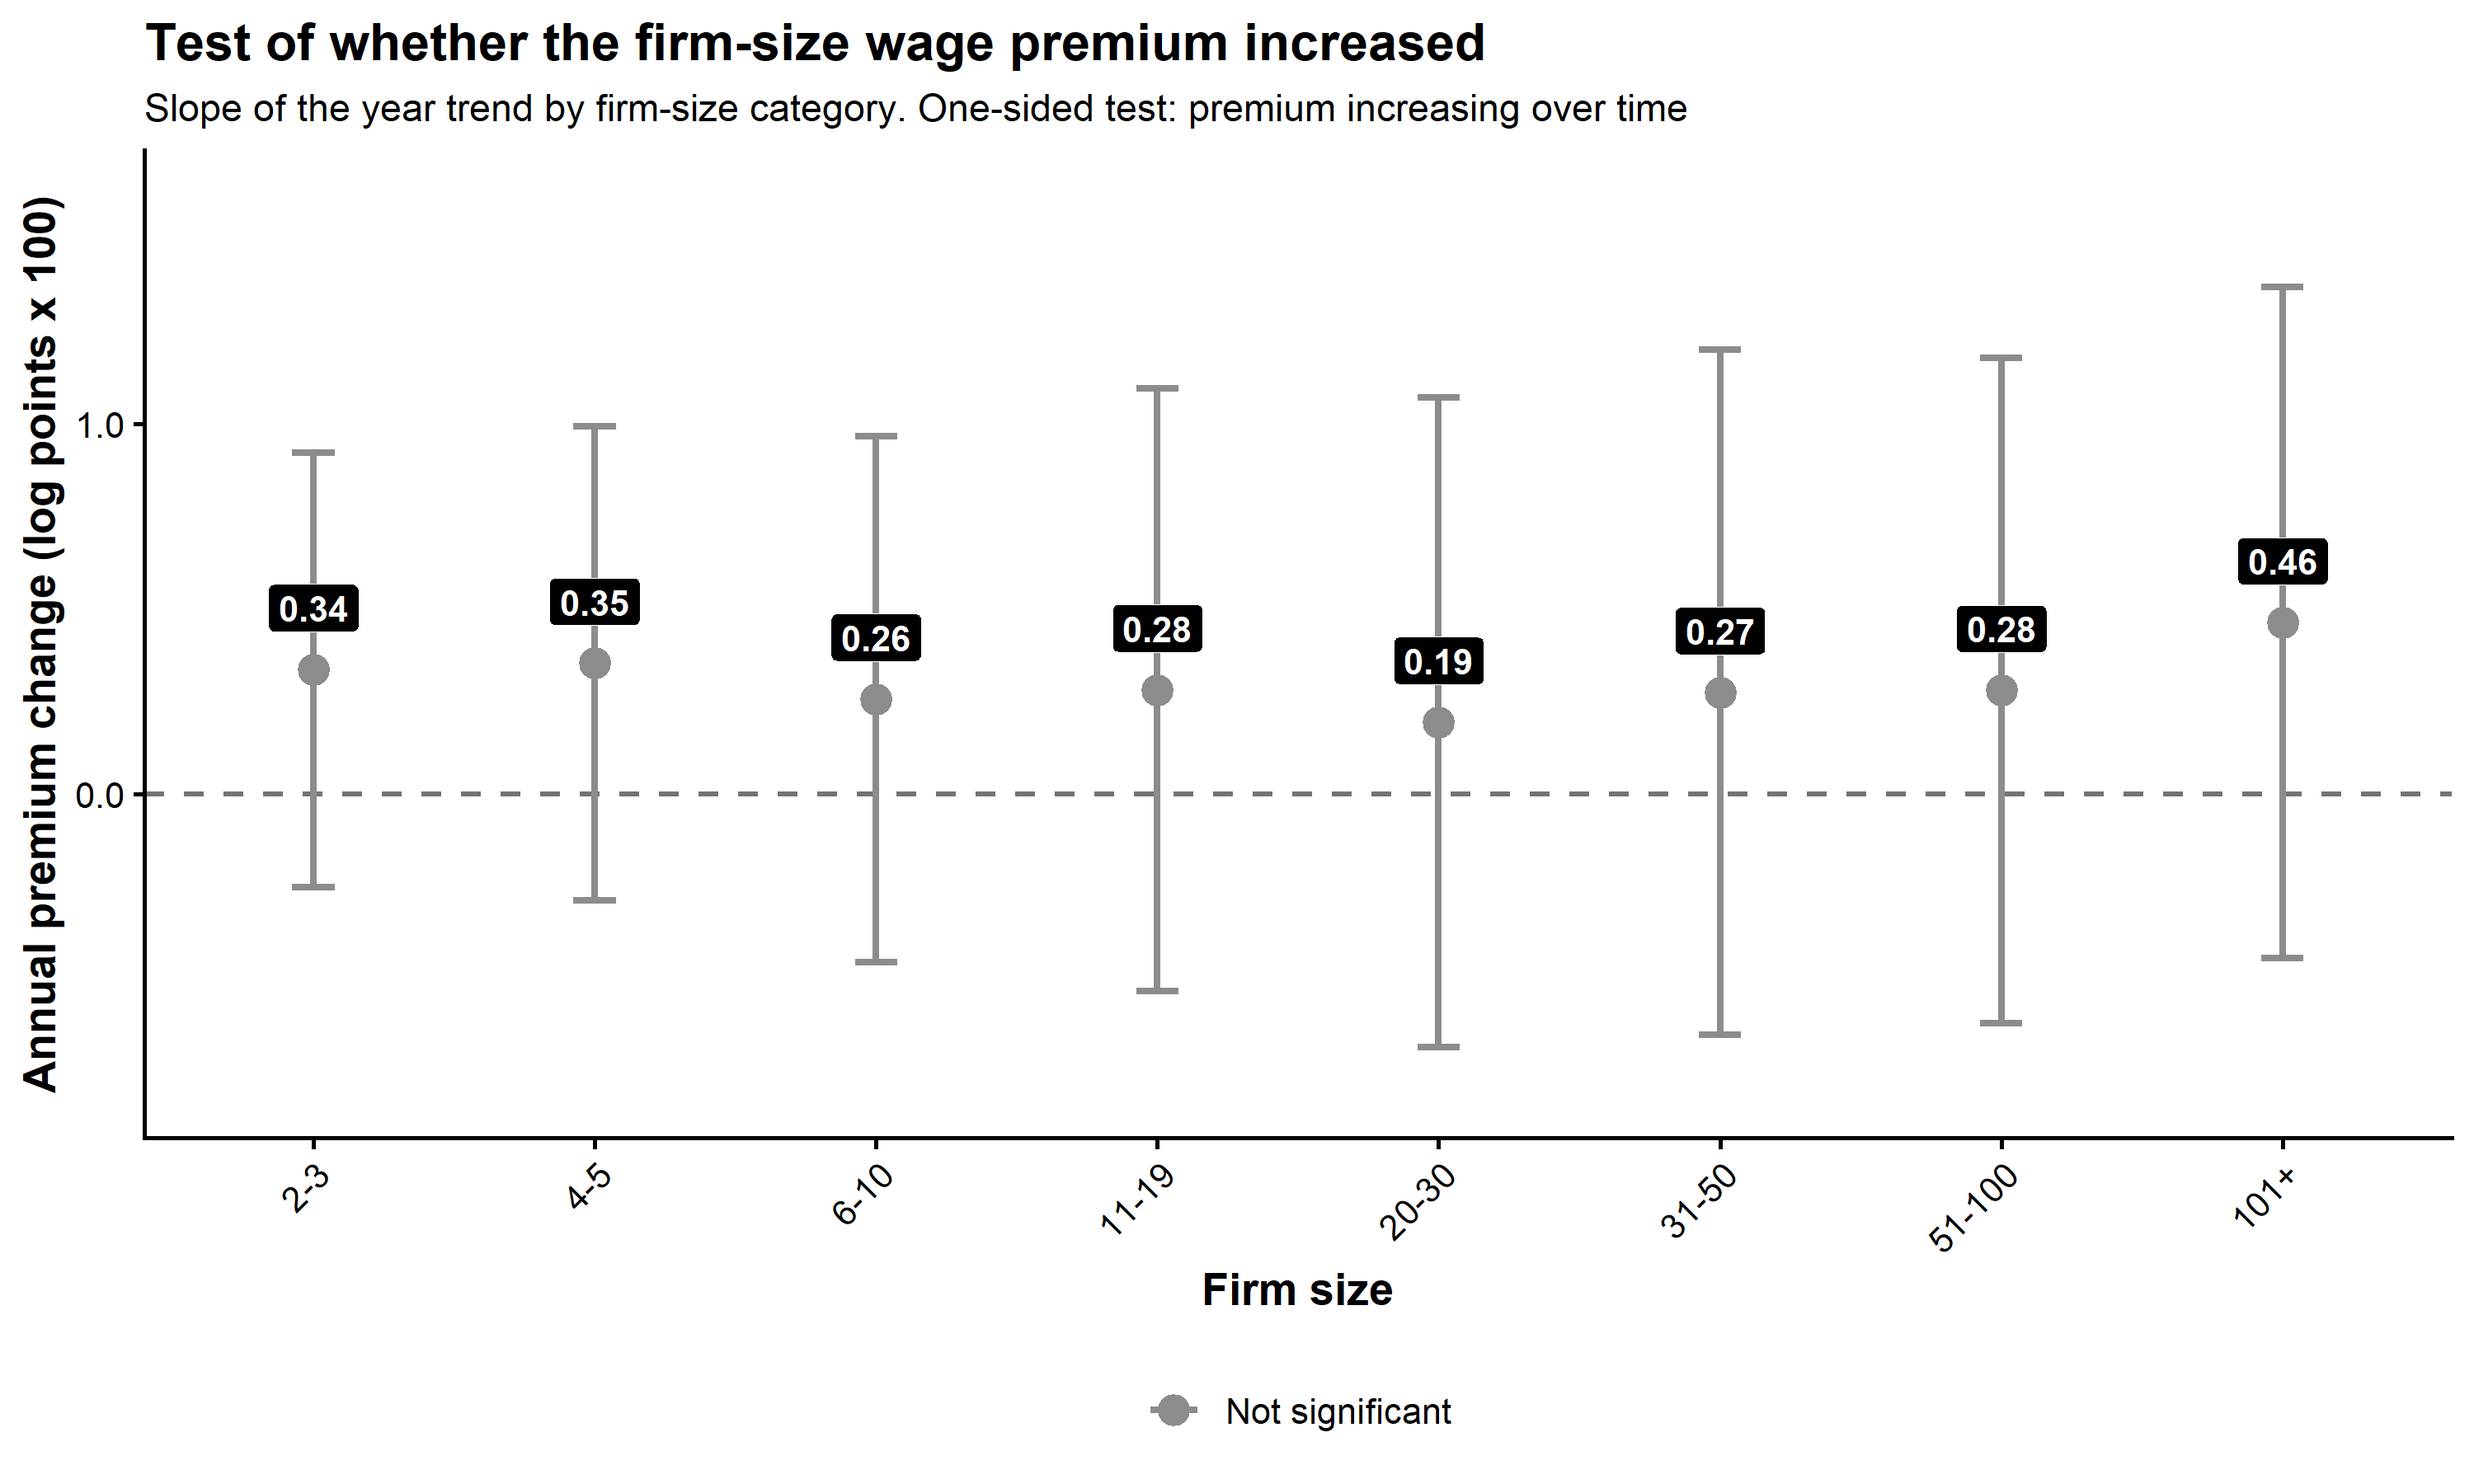
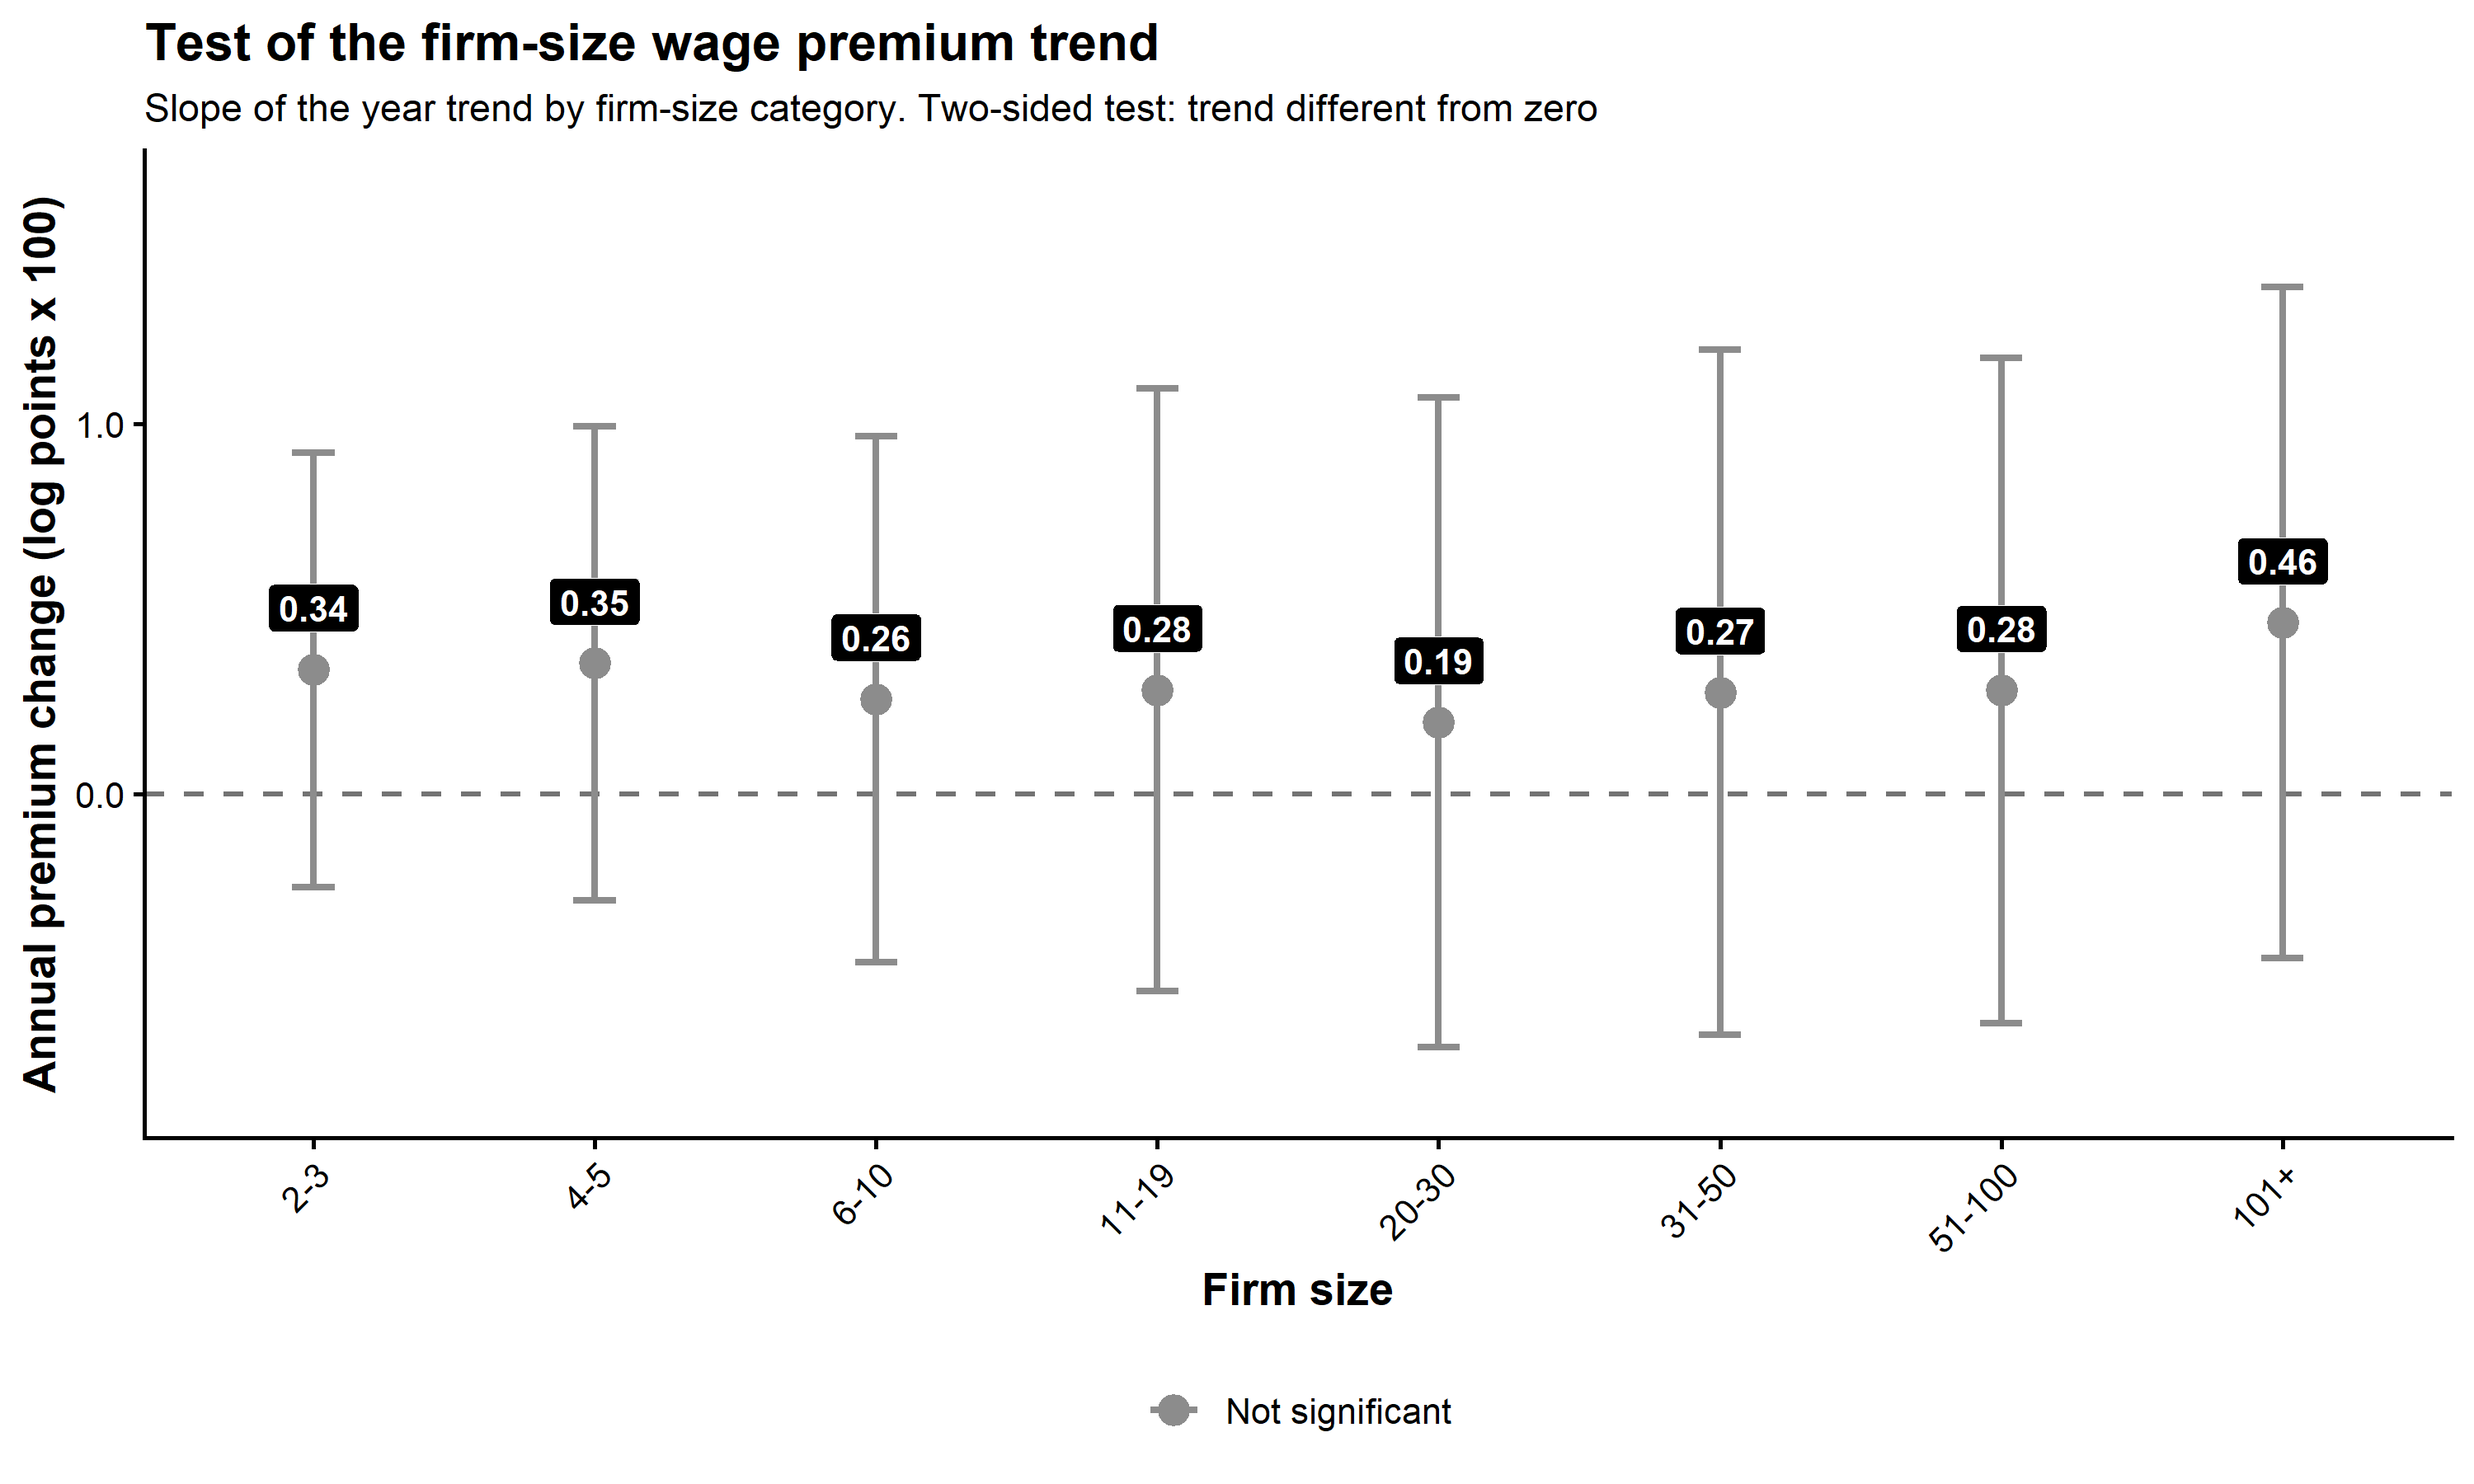
Use two-sided trend tests

Changed region(s): [[0.124, 0.0, 0.682, 0.0933]]

diff --git a/Paper/sections/regression_firm_size_trend_test.tex b/Paper/sections/regression_firm_size_trend_test.tex
@@ -1,25 +1,25 @@
 \begin{table}[htbp]
   \centering
-  \caption{Testing whether the firm-size wage premium increased over time}
+  \caption{Testing whether the firm-size wage premium changed over time}
   \label{tab:firm-size-premium-trend-test}
   \small
   \begin{tabular}{lcccc}
     \toprule
     Firm size & Annual trend & S.E. & $p$-value & Implied 2008--2025 change \\
     \midrule
-    2-3 & 0.0034 & (0.0028) & 0.121 & 5.9\% \\
-    4-5 & 0.0035 & (0.0030) & 0.130 & 6.2\% \\
-    6-10 & 0.0026 & (0.0034) & 0.227 & 4.5\% \\
-    11-19 & 0.0028 & (0.0038) & 0.237 & 4.9\% \\
-    20-30 & 0.0019 & (0.0041) & 0.323 & 3.4\% \\
-    31-50 & 0.0027 & (0.0044) & 0.269 & 4.8\% \\
-    51-100 & 0.0028 & (0.0042) & 0.259 & 4.9\% \\
-    101+ & 0.0046 & (0.0043) & 0.148 & 8.2\% \\
+    2-3 & 0.0034 & (0.0028) & 0.243 & 5.9\% \\
+    4-5 & 0.0035 & (0.0030) & 0.259 & 6.2\% \\
+    6-10 & 0.0026 & (0.0034) & 0.455 & 4.5\% \\
+    11-19 & 0.0028 & (0.0038) & 0.474 & 4.9\% \\
+    20-30 & 0.0019 & (0.0041) & 0.646 & 3.4\% \\
+    31-50 & 0.0027 & (0.0044) & 0.538 & 4.8\% \\
+    51-100 & 0.0028 & (0.0042) & 0.519 & 4.9\% \\
+    101+ & 0.0046 & (0.0043) & 0.295 & 8.2\% \\
     \bottomrule
   \end{tabular}
   \vspace{0.3em}
   \begin{minipage}{0.95\textwidth}
   \footnotesize
-  Notes: The annual trend is the coefficient on the interaction between firm-size category and a linear year trend, with solo workers as the omitted category. The specification controls for gender, age, age squared, education, formality, and sector-year fixed effects, and uses GEIH expansion weights. Standard errors are clustered by sector. The $p$-value corresponds to the one-sided test that the premium increased over time. The final column reports $100\times[\exp(17\hat{\delta})-1]$, the implied change in the firm-size wage ratio between 2008 and 2025.
+  Notes: The annual trend is the coefficient on the interaction between firm-size category and a linear year trend, with solo workers as the omitted category. The specification controls for gender, age, age squared, education, formality, and sector-year fixed effects, and uses GEIH expansion weights. Standard errors are clustered by sector. The $p$-value corresponds to the two-sided test that the trend differs from zero. The final column reports $100\times[\exp(17\hat{\delta})-1]$, the implied change in the firm-size wage ratio between 2008 and 2025.
   \end{minipage}
 \end{table}

diff --git a/Paper/sections/results.tex b/Paper/sections/results.tex
@@ -154,14 +154,16 @@ years, although the confidence intervals are wider for these categories.
 \end{figure}
 
 Table~\ref{tab:firm-size-premium-trend-test} formally tests whether the premium
-increased over time using a linear trend interacted with firm-size categories.
+changed over time using a linear trend interacted with firm-size categories.
 The estimated trend coefficients are positive for all size categories. The
 implied increase between 2008 and 2025 ranges from 3.4 percent for firms with
 20--30 workers to 8.2 percent for firms with 101 or more workers. However, the
-one-sided tests do not reject a zero trend at the 5 percent level. Thus, the
+two-sided tests do not reject a zero trend at the 5 percent level. Thus, the
 current evidence supports a positive conditional firm-size wage premium, but the
-evidence that this premium has increased over time is suggestive rather than
-statistically conclusive.
+evidence that this premium has changed over time is suggestive rather than
+statistically conclusive. Since all estimated trend coefficients are positive,
+the suggestive pattern points toward widening rather than narrowing, but the
+bilateral tests do not support a statistically conclusive trend.
 
 The dynamic exercise also clarifies what it would mean for the firm-size wage
 gradient to steepen or flatten over time. A steepening premium would imply that

diff --git a/Paper/sections/methodology.tex b/Paper/sections/methodology.tex
@@ -44,8 +44,12 @@ This dynamic specification produces a sequence of firm-size premiums by year and
   + \lambda_{s \times t}
   + \varepsilon_{ist},
 \end{equation}
-where \(Trend_t\) is a linear year trend normalized to zero in 2008. The parameter \(\delta_g\) tests whether the wage premium for firm-size group \(g\) increased over time relative to solo workers. We report one-sided tests of \(H_0:\delta_g=0\) against \(H_1:\delta_g>0\), because the empirical question is
-whether the premium widened over the period.
+where \(Trend_t\) is a linear year trend normalized to zero in 2008. The
+parameter \(\delta_g\) measures whether the wage premium for firm-size group
+\(g\) changed over time relative to solo workers. We report two-sided tests of
+\(H_0:\delta_g=0\) against \(H_1:\delta_g\neq0\), because the premium could
+either widen or narrow over the period. Positive values of \(\delta_g\) imply a
+steepening firm-size gradient, while negative values imply a flattening one.
 
 
 \subsection{Firm-Size Nonlinearities by Formality Status}
